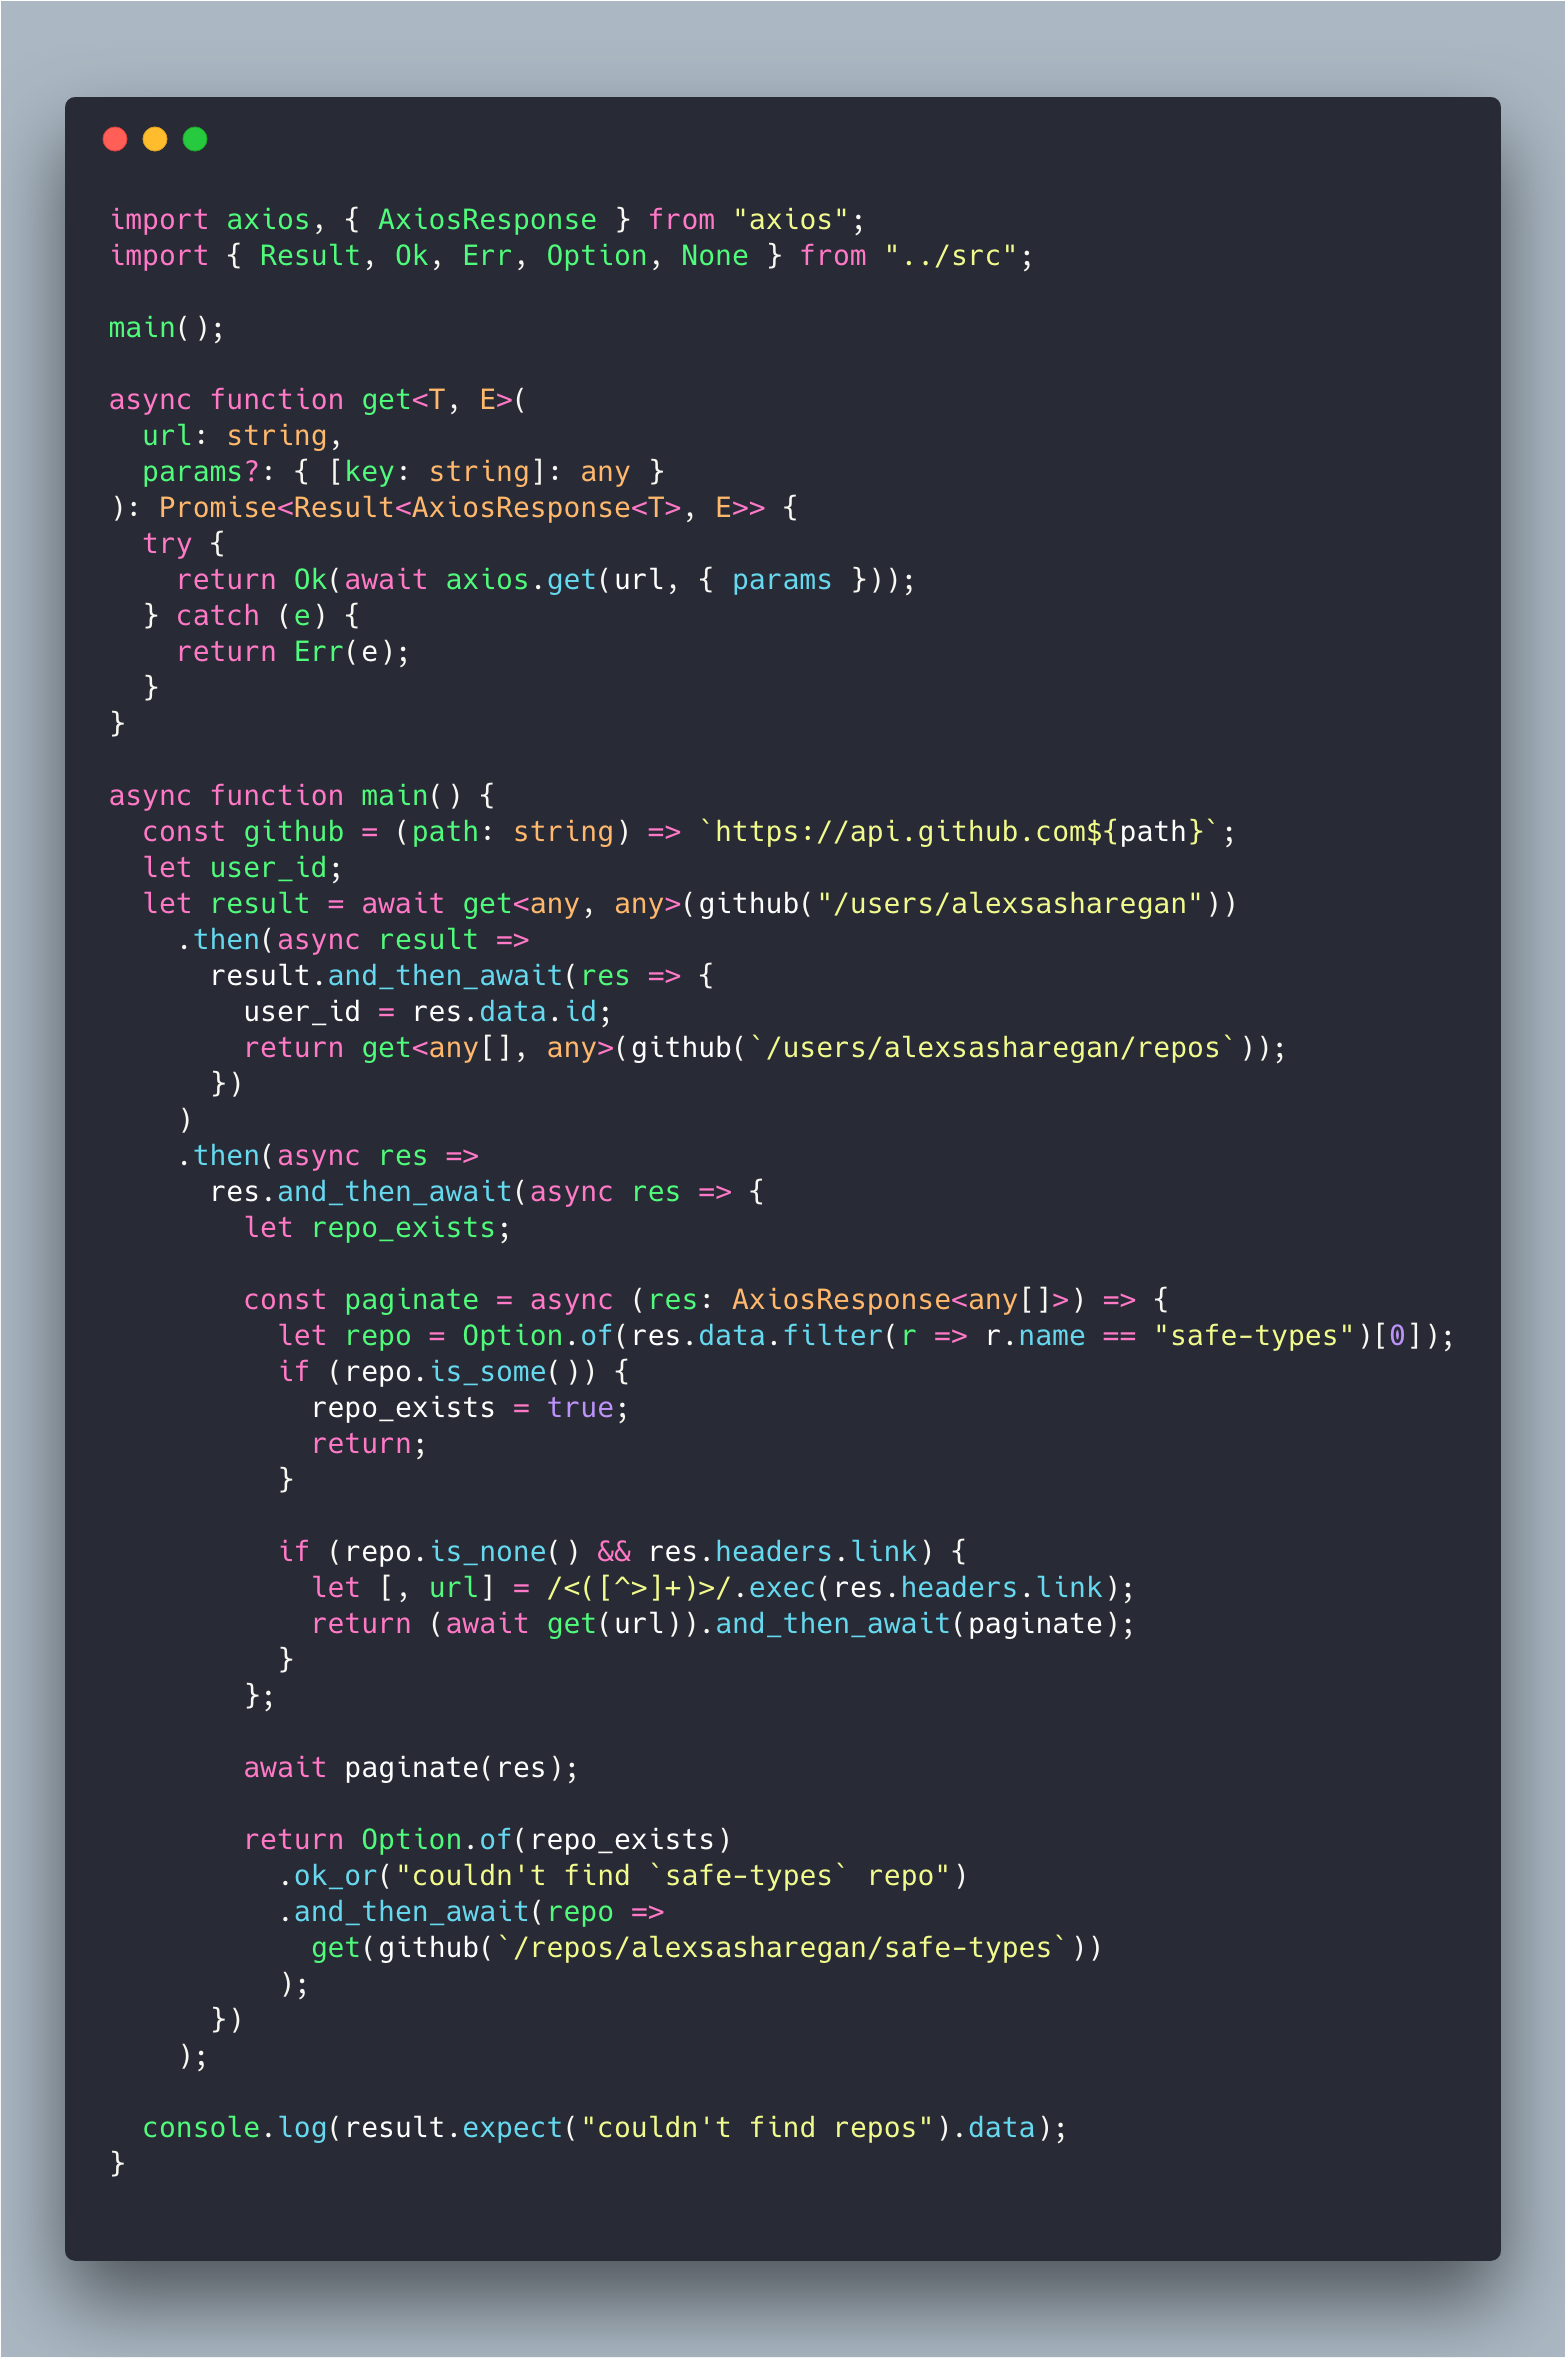
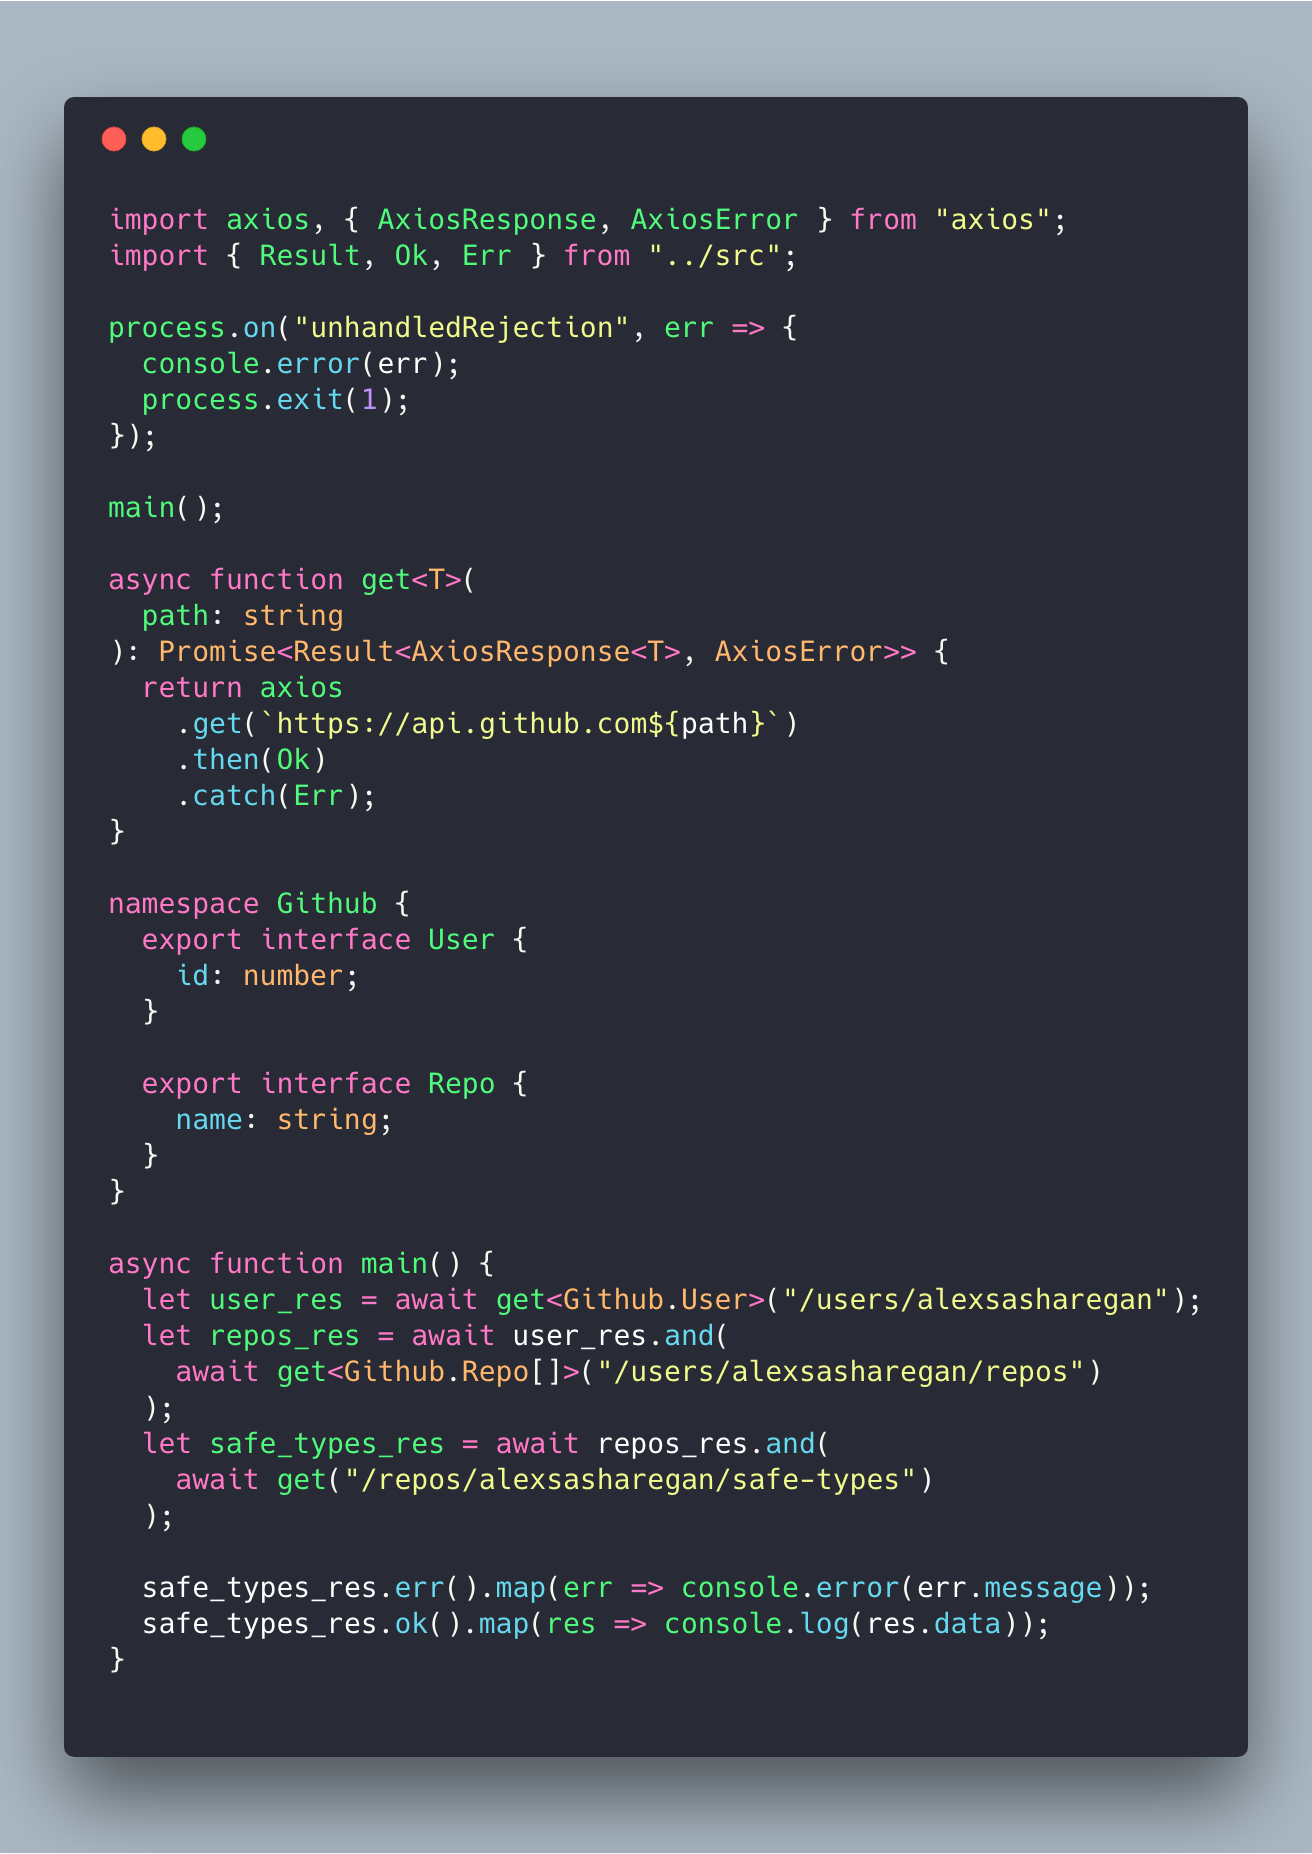
fix: update some types with defaults

diff --git a/examples/fetch.ts b/examples/fetch.ts
@@ -1,55 +1,41 @@
-import axios, { AxiosResponse } from "axios";
-import { Result, Ok, Err, Option, None } from "../src";
+import axios, { AxiosResponse, AxiosError } from "axios";
+import { Result, Ok, Err } from "../src";
+
+process.on("unhandledRejection", err => {
+  console.error(err);
+  process.exit(1);
+});
 
 main();
 
-async function get<T, E>(
-  url: string,
-  params?: { [key: string]: any }
-): Promise<Result<AxiosResponse<T>, E>> {
-  try {
-    return Ok(await axios.get(url, { params }));
-  } catch (e) {
-    return Err(e);
+async function get<T>(
+  path: string
+): Promise<Result<AxiosResponse<T>, AxiosError>> {
+  return axios
+    .get(`https://api.github.com${path}`)
+    .then(Ok)
+    .catch(Err);
+}
+
+namespace Github {
+  export interface User {
+    id: number;
+  }
+
+  export interface Repo {
+    name: string;
   }
 }
 
 async function main() {
-  const github = (path: string) => `https://api.github.com${path}`;
-  let user_id;
-  let result = await get<any, any>(github("/users/alexsasharegan"))
-    .then(async result =>
-      result.and_then_await(res => {
-        user_id = res.data.id;
-        return get<any[], any>(github(`/users/alexsasharegan/repos`));
-      })
-    )
-    .then(async res =>
-      res.and_then_await(async res => {
-        let repo_exists;
+  let user_res = await get<Github.User>("/users/alexsasharegan");
+  let repos_res = await user_res.and(
+    await get<Github.Repo[]>("/users/alexsasharegan/repos")
+  );
+  let safe_types_res = await repos_res.and(
+    await get("/repos/alexsasharegan/safe-types")
+  );
 
-        const paginate = async (res: AxiosResponse<any[]>) => {
-          let repo = Option.of(res.data.filter(r => r.name == "safe-types")[0]);
-          if (repo.is_some()) {
-            repo_exists = true;
-            return;
-          }
-
-          if (repo.is_none() && res.headers.link) {
-            let [, url] = /<([^>]+)>/.exec(res.headers.link);
-            return (await get(url)).and_then_await(paginate);
-          }
-        };
-
-        await paginate(res);
-
-        return Option.of(repo_exists)
-          .ok_or("couldn't find `safe-types` repo")
-          .and_then_await(repo =>
-            get(github(`/repos/alexsasharegan/safe-types`))
-          );
-      })
-    );
-
-  console.log(result.expect("couldn't find repos").data);
+  safe_types_res.err().map(err => console.error(err.message));
+  safe_types_res.ok().map(res => console.log(res.data));
 }

diff --git a/src/result.ts b/src/result.ts
@@ -77,15 +77,6 @@ export class Result<T, E> {
     });
   }
 
-  public async and_then_await<U>(
-    op: (t: T) => Promise<Result<U, E>>
-  ): Promise<Result<U, E>> {
-    return this.match({
-      ok: (t: T) => op(t),
-      err: async (e: E) => Result.Err(e),
-    });
-  }
-
   /**
    * Returns `res` if the result is [`Err`],
    * otherwise returns the [`Ok`] value of `self`.
@@ -220,11 +211,11 @@ export class Result<T, E> {
     });
   }
 
-  public static Ok<T>(val: T): Result<T, any> {
+  public static Ok<T, E = any>(val: T): Result<T, E> {
     return new Result(Ok(val));
   }
 
-  public static Err<E>(err: E): Result<any, E> {
+  public static Err<E, T = any>(err: E): Result<T, E> {
     return new Result(Err(err));
   }
 
